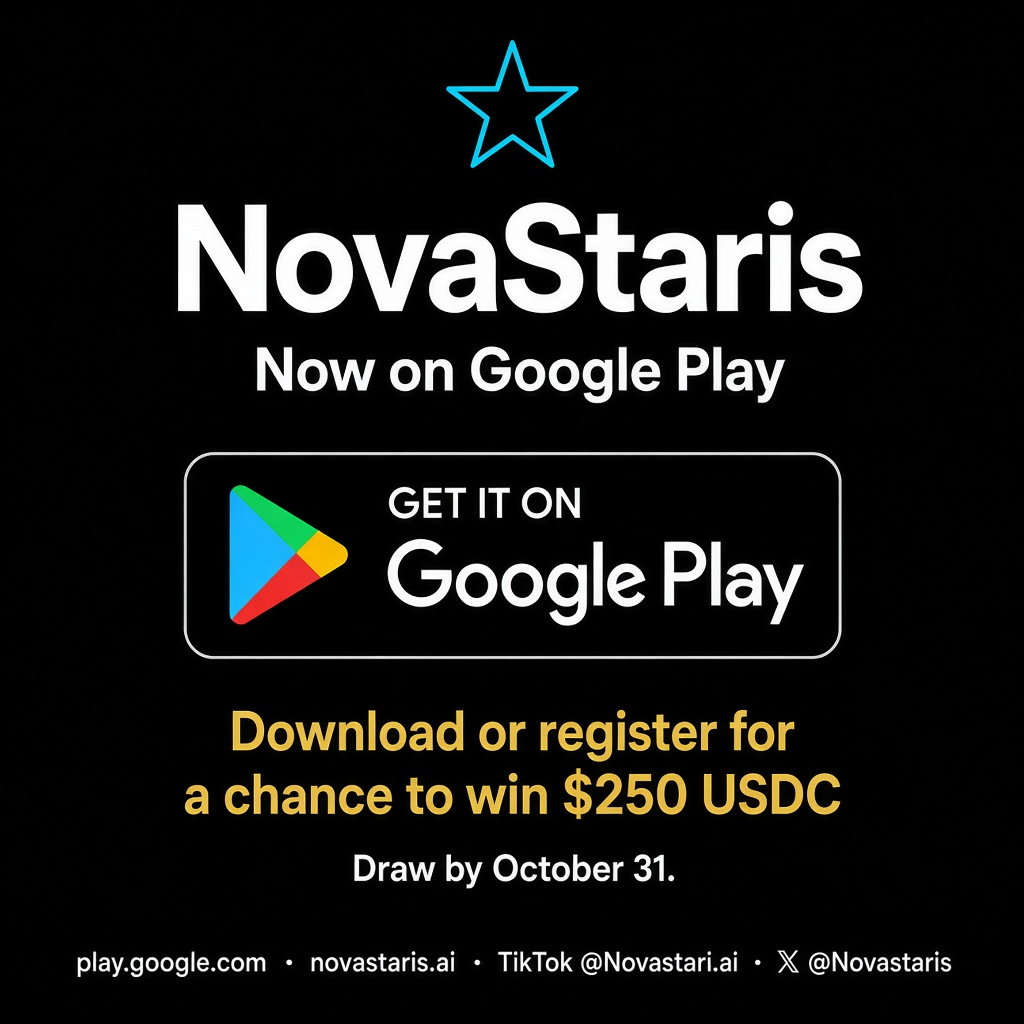
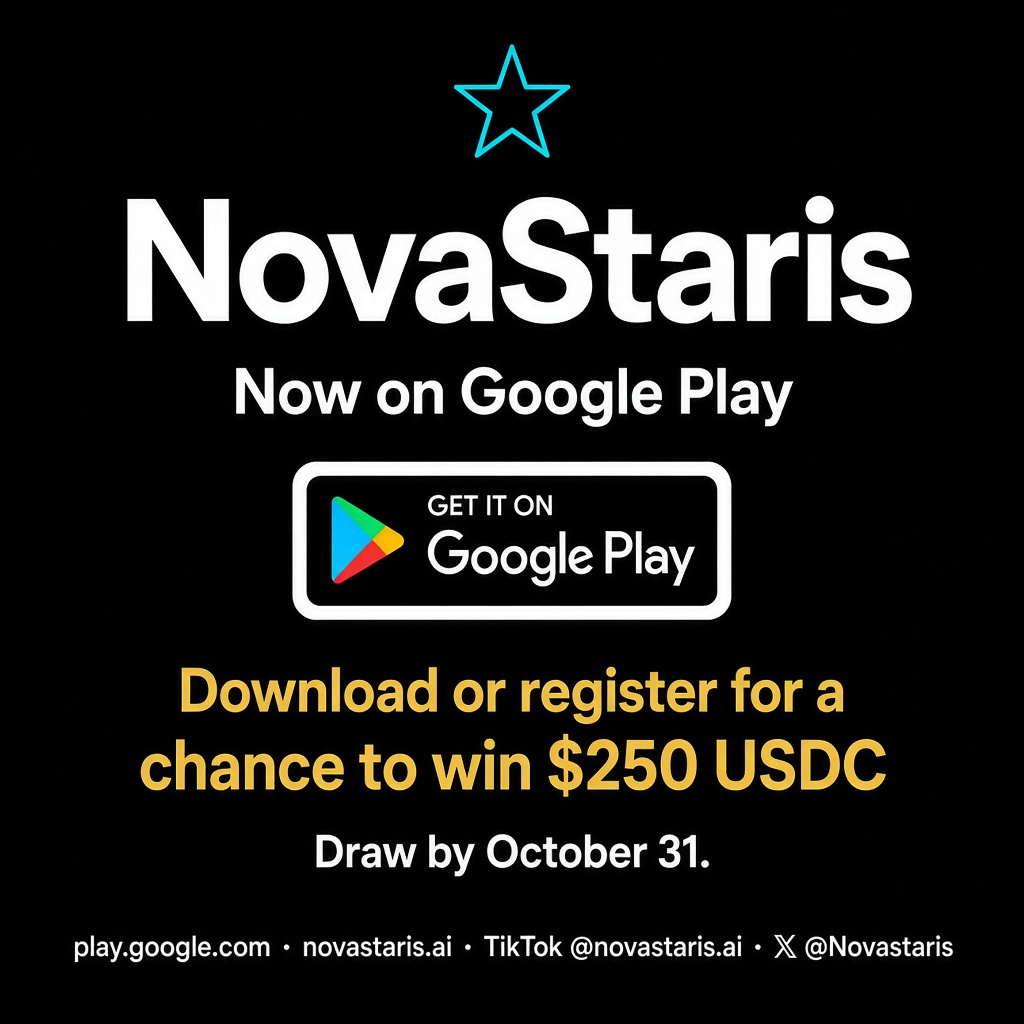
Fix TikTok handle to @novastaris.ai

diff --git a/lib/marketing-postcards.ts b/lib/marketing-postcards.ts
@@ -94,8 +94,8 @@ const SPECS: Record<MarketingPostcardId, Spec> = {
       "Register: https://novastaris.ai/register",
       "Terms: https://novastaris.ai/promo-terms",
       "",
-      "Follow: Instagram @novastaris · TikTok @Novastari.ai · X @Novastaris",
-      "https://www.tiktok.com/@Novastari.ai",
+      "Follow: Instagram @novastaris · TikTok @novastaris.ai · X @Novastaris",
+      "https://www.tiktok.com/@novastaris.ai",
       "https://x.com/Novastaris",
     ].join("\n"),
   },

diff --git a/lib/app-distribution.ts b/lib/app-distribution.ts
@@ -14,8 +14,8 @@ export const NOVASTARIS_SOCIAL = {
     url: "https://www.instagram.com/novastaris/",
   },
   tiktok: {
-    handle: "Novastari.ai",
-    url: "https://www.tiktok.com/@Novastari.ai",
+    handle: "novastaris.ai",
+    url: "https://www.tiktok.com/@novastaris.ai",
   },
   x: {
     handle: "Novastaris",
